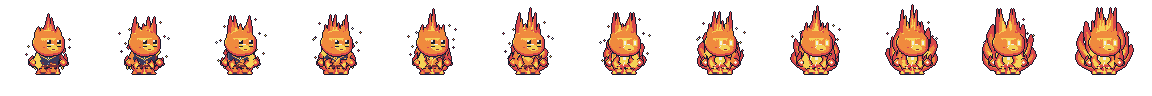
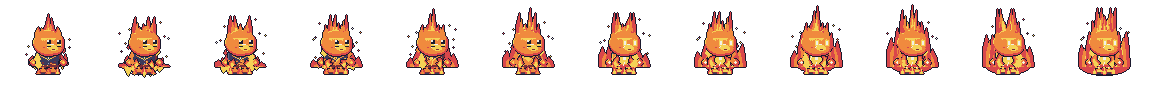
No rings under the feet, just a shadow; Inferno's fire is a bonfire behind Flint
Claude-Session: https://claude.ai/code/session_01J8LgTLVYzThXjNSRVhWqep

diff --git a/tools/sprites/generate.py b/tools/sprites/generate.py
@@ -400,6 +400,12 @@ def flint(step=None, t=0, heat=0.0):
     hot = heat >= 0.5
     crack = (ORANGE, YELLOW)[t % 2] if not hot else (YELLOW, WHITE)[t % 2]  # cracks pulse every tick
     low = Canvas()
+    if heat > 0:  # a bonfire roaring up behind him (on the legs' canvas, so behind everything): jagged tongues all
+        # licking upwards, flickering every tick, rising out of a rounded mass of fire; grows with heat
+        rx, ry = 25 * heat, 9 * heat
+        low.part(E((32 - rx, 49 - ry, 32 + rx, 49 + ry)), RED, shade=False, line=False)
+        flame(low, 7, 57, 50, round(34 * heat), t, tongues=7, line=False)
+        flame(low, 14, 50, 50, round(46 * heat), t + 1, tongues=5, line=False)
     for k, (x, dy) in enumerate(legs(low, ORANGE if hot else RED, RED, step)):  # molten legs and feet, on fire too
         low.flat(R((x + 2, 46 + dy, x + 3, 52 + dy)), YELLOW if hot else ORANGE)  # glowing inside
         low.flat(R((x + 2, 47 + dy, x + 2, 51 + dy)), crack)  # a vein of fire down each
@@ -439,12 +445,6 @@ def flint(step=None, t=0, heat=0.0):
             up.part(P(edge_a + edge_b[::-1]), col, shade=False, line=col == RED)
 
     grow = lambda root, p: [r + (q - r) * heat for r, q in zip(root, p)]
-    if heat > 0:  # flames flowing out of him: wide tongues rooted inside the body (drawn behind it, so no base
-        # shows) that sweep out and curl up
-        for k, (root, ctrl, tip) in enumerate((((24, 47), (6, 46), (7, 28)), ((24, 41), (7, 37), (10, 15)),
-                                               ((26, 36), (13, 29), (16, 5)))):
-            for side in (1, -1):  # out of step on each side
-                tongue(root, grow(root, ctrl), grow(root, tip), (t + k + (side < 0) * 2) * math.pi / 2, side)
     fist(17, 1)  # back hand, behind the body
     # glowing molten body under his suit: a hotter core inside, veins of fire pulsing every tick
     up.part(RR(BODY, 3), ORANGE if hot else RED)

diff --git a/CLAUDE.md b/CLAUDE.md
@@ -94,7 +94,7 @@ A mobile real-time PvP arena shooter. Combat feel is inspired by top-down roguel
 ## Status
 - [~] **M1 – implemented, needs a hands-on feel pass** (2026-10-28)
   - Done: floating joystick + FIRE (auto-aim, drag-to-aim) / DASH / SWAP touch buttons; WASD + mouse/J/Space/Q on desktop;
-    auto-aim to nearest visible enemy with target ring; Pocket Blaster (free), Buzzsaw SMG, Scattercannon;
+    auto-aim to nearest visible enemy; Pocket Blaster (free), Buzzsaw SMG, Scattercannon;
     energy; HP + armor regen; dash with i-frames; 3 dummy bots; kill/death tally; respawn at safest spawn; one arena ("Pit").
   - Sim lives in pure classes (`PlayerStats`, `WeaponState`, `Loadout`, `DashSkill`, `MovementSim`, `CombatRules`, `AutoAim`)
     driven by `Player.simulate(InputFrame, delta)`.
@@ -185,7 +185,7 @@ A mobile real-time PvP arena shooter. Combat feel is inspired by top-down roguel
   body box (`CROWNS`) fit; all animations use whole cells, menus use `CharacterData.portrait()` (`SPRITE_PORTRAIT_RECT`). On a real death `Player._spawn_corpse()` plays "die" on every peer; scarves/feathers/plumes sway and Warden's gem glints via the `t` tick. Flicker (kunoichi: jagged bob, spiky topknot with red ribbon tails, breastplate), Warden (knight, plume,
   tower shield), Twinshot (wide-brim gunslinger, two holsters), Wukong (monkey king, cloud puffs via `AURAS`, Dash). Flint (fire elemental, head on fire: an upright flickering flame drawn above the body box via generate.py `CROWNS`, a scorched dark suit burning up from a ragged hem (generate.py `flint_burn`; heat burns it off, gone in Inferno) over a glowing molten body and legs, flames on his feet, wisps breaking off, fists of fire, rising sparks (`flint_embers` aura); Ember Palm: a held fireball, animated and drawn upright so its flames rise (`WeaponData.upright`, `held_frames`, generate.py `WEAPON_ANIMS`: a strip looped in-world, the HUD keeps the still `sprite`), short-range piercing fireballs from its front with drag; signature **Inferno**: TRANSFORM into `flint_inferno` (generate.py `flint(heat=1)`: wide flame tongues sweeping out and curling up behind him (`tongue()`), flames curling up his front, white-hot body, blazing eyes, taller crown; morph strip = heat rising) for 5 s, FIRE = `inferno_beam` (wide fire BEAM from his fist: `muzzle_x` set, or a sprite-less weapon starts 40 px out like a volley); Supernova (VOLLEY of 16 fireballs) is still pickable). Gunnar (twinshot) and Warden are benched (`CharacterData.in_rotation = false`: not in menus, loading room or bots; still load by id). All characters share one base modelled on Apex's face (generate.py `FACE`, `FACE_R`, `BODY`, `EYES_X/Y`, `BLUSH`, `MOUTH`). Sakura (pink-haired girl in a white kimono, red obi bow, middle-parted hair with mirrored curtains and a long ponytail tied with a cherry blossom; Blossom Fan: 5 bouncing petals with drag; Petal Storm: VOLLEY of 40 homing petals (`WeaponData.homing`: turn rate toward the nearest hittable enemy) that sweep round in a wave; uses the palette's PINK / PINK_L). New characters: `.claude/skills/new-character`. `CharacterData.sprite_sheet` → `sprite_frames()`
   builds a shared SpriteFrames ("idle", "hit", "walk"); the Player has an `AnimatedSprite2D` (Nearest, x1.5) plus an overlay
-  node for the front weapon and bars. Player colour = foot ring only (sheets aren't recoloured).
+  node for the front weapon and bars. No rings under the feet, just a shadow; player colour shows in the scoreboard and effects (sheets aren't recoloured).
   The script also writes `assets/icon.png` and one 48x24 image per weapon (`assets/sprites/weapons/<id>.png`).
 - **Character weapons** (2026-10-30): many-to-many via tags. `WeaponData.tags` (e.g. `blade`, `light`, `heavy`,
   `precision`, `explosive`, `arcane`; empty = anyone) vs `CharacterData.weapon_tags`; `can_use()` = any shared tag.
